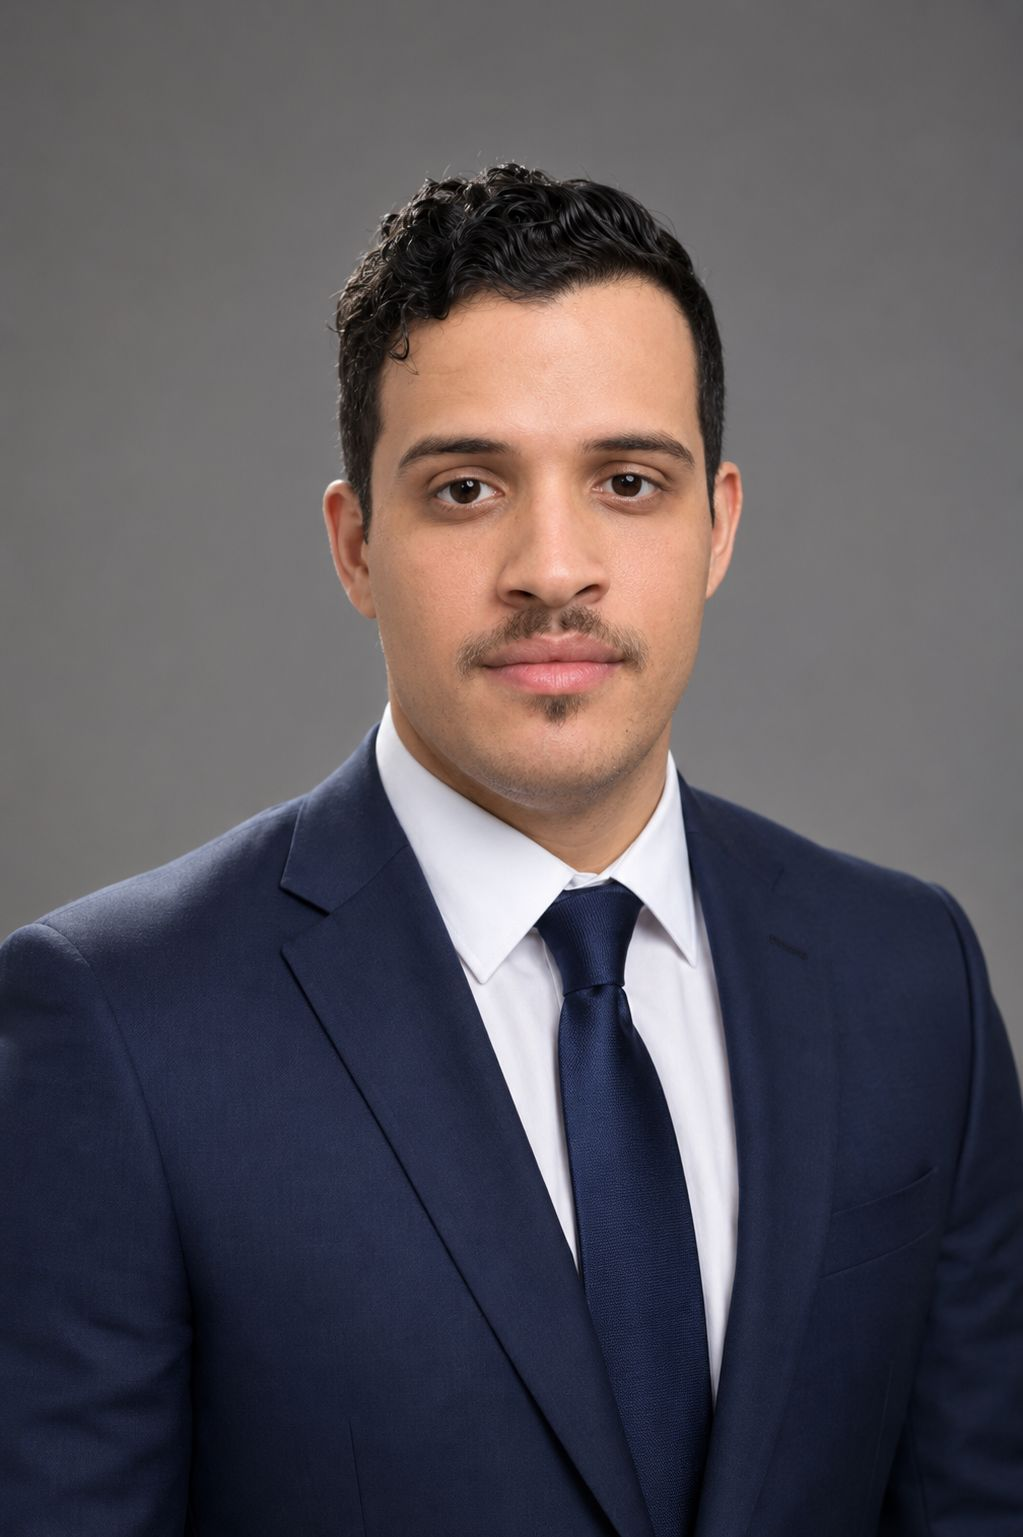
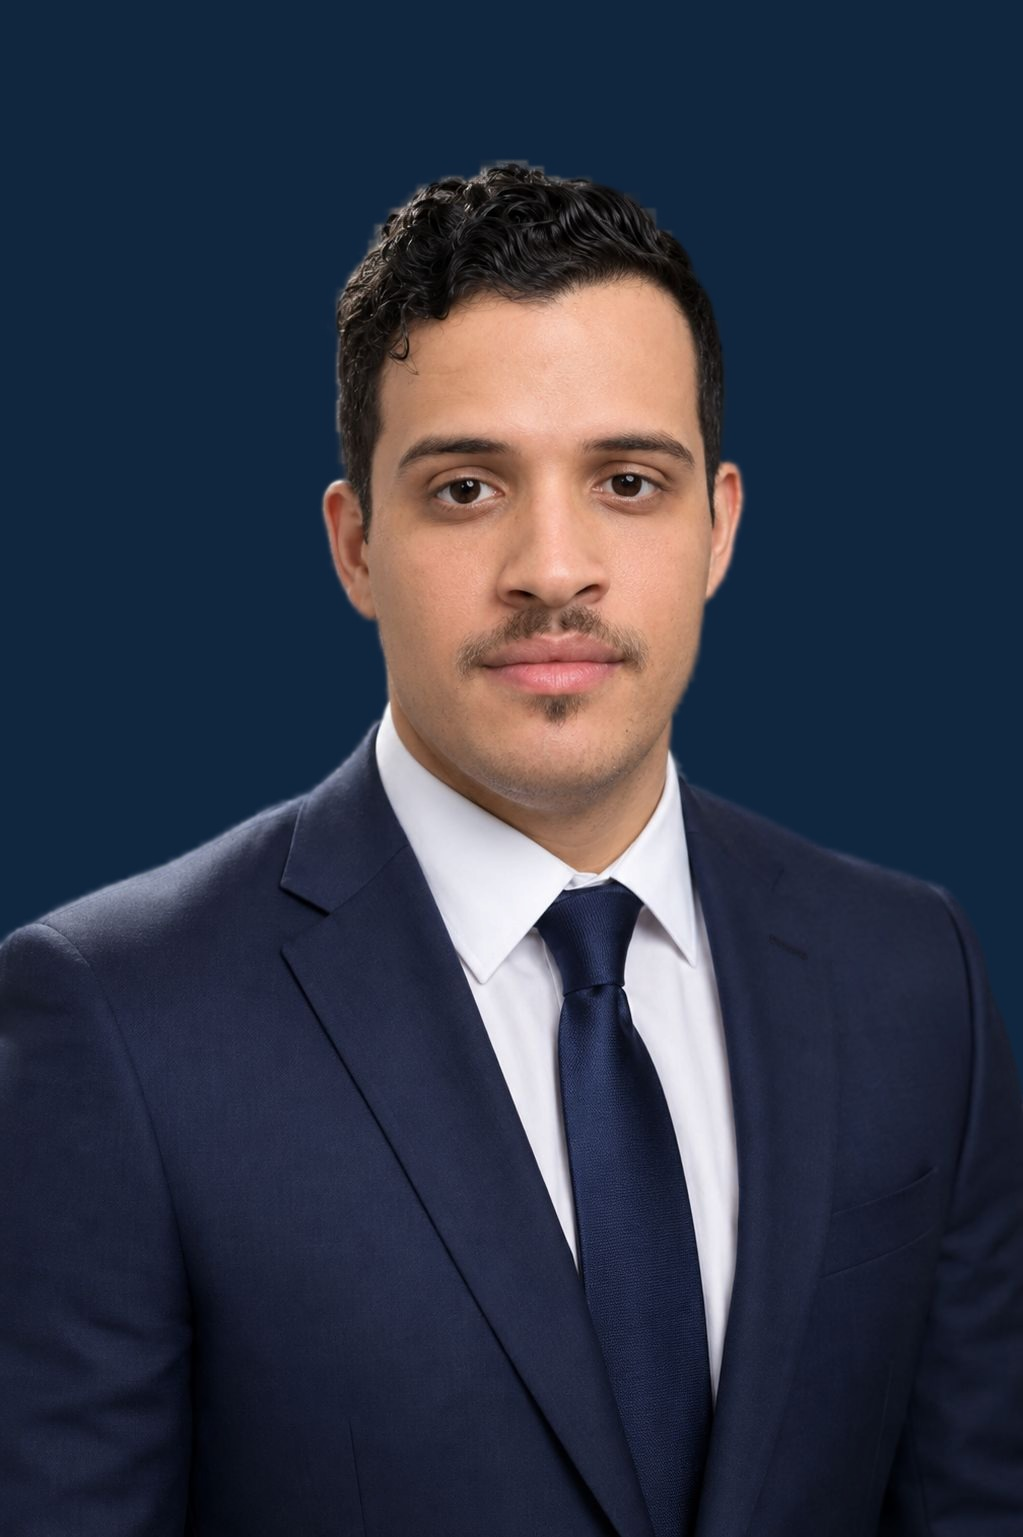
Corregir ubicacion (Santo Domingo, Republica Dominicana) y foto de perfil
Foto profesional con fondo recompuesto al azul noche #10263F de la linea
grafica (segmentacion + composicion), reemplaza el fondo gris de estudio.

diff --git a/es/index.html b/es/index.html
@@ -83,7 +83,7 @@
       <p>Actualmente curso la Maestría en Análisis y Visualización de Datos Masivos (UNIR).</p>
         </details>
       </div>
-      <div class="info"><div><span class="lbl">Institución</span><b>Banco Central de la República Dominicana</b></div><div><span class="lbl">Formación</span><b>INTEC · UNIR</b></div><div><span class="lbl">Desde</span><b>Santo Domingo</b></div></div>
+      <div class="info"><div><span class="lbl">Institución</span><b>Banco Central de la República Dominicana</b></div><div><span class="lbl">Formación</span><b>INTEC · UNIR</b></div><div><span class="lbl">Desde</span><b>Santo Domingo, República Dominicana</b></div></div>
     </div>
   </section>
 

diff --git a/index.html b/index.html
@@ -83,7 +83,7 @@
       <p>Currently pursuing a Master's in Big Data Analysis and Visualization (UNIR).</p>
         </details>
       </div>
-      <div class="info"><div><span class="lbl">Institution</span><b>Central Bank of the Dominican Republic</b></div><div><span class="lbl">Education</span><b>INTEC · UNIR</b></div><div><span class="lbl">Based in</span><b>Santo Domingo</b></div></div>
+      <div class="info"><div><span class="lbl">Institution</span><b>Central Bank of the Dominican Republic</b></div><div><span class="lbl">Education</span><b>INTEC · UNIR</b></div><div><span class="lbl">Based in</span><b>Santo Domingo, Dominican Republic</b></div></div>
     </div>
   </section>
 
